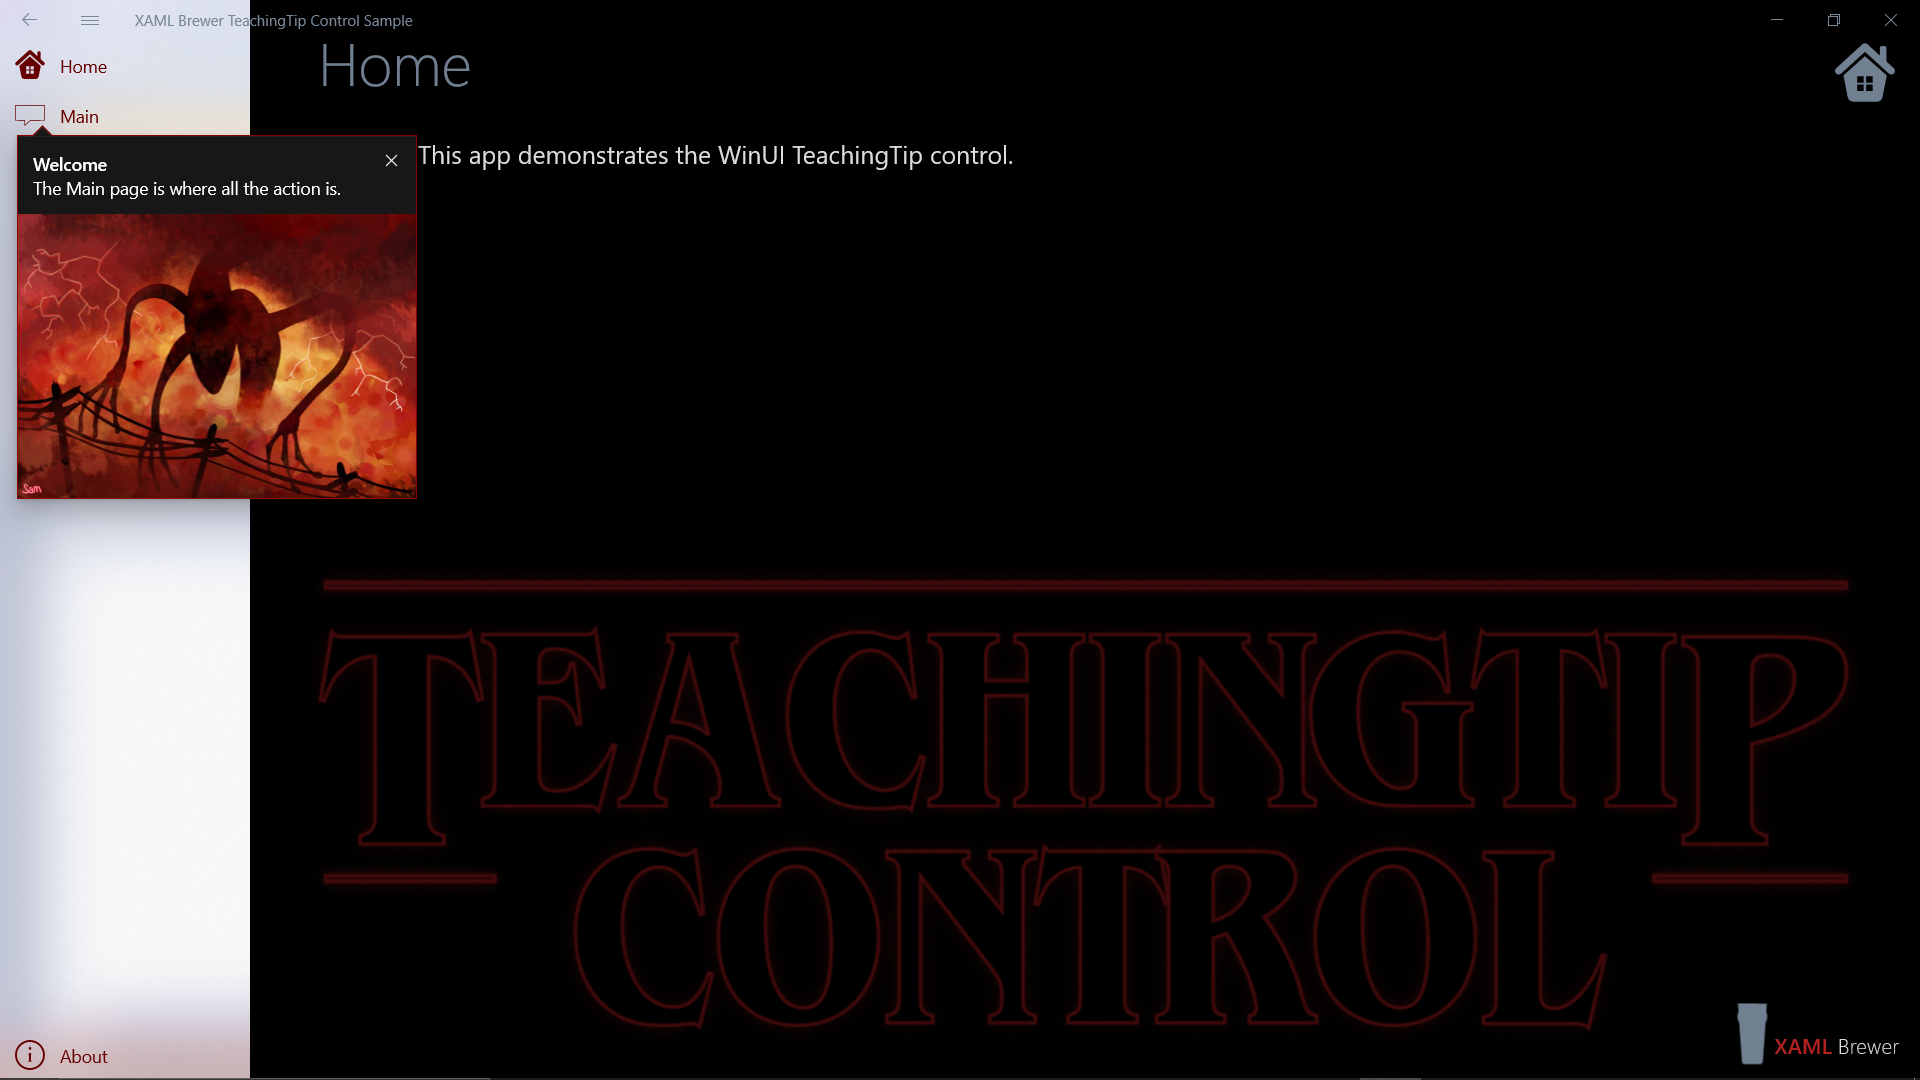
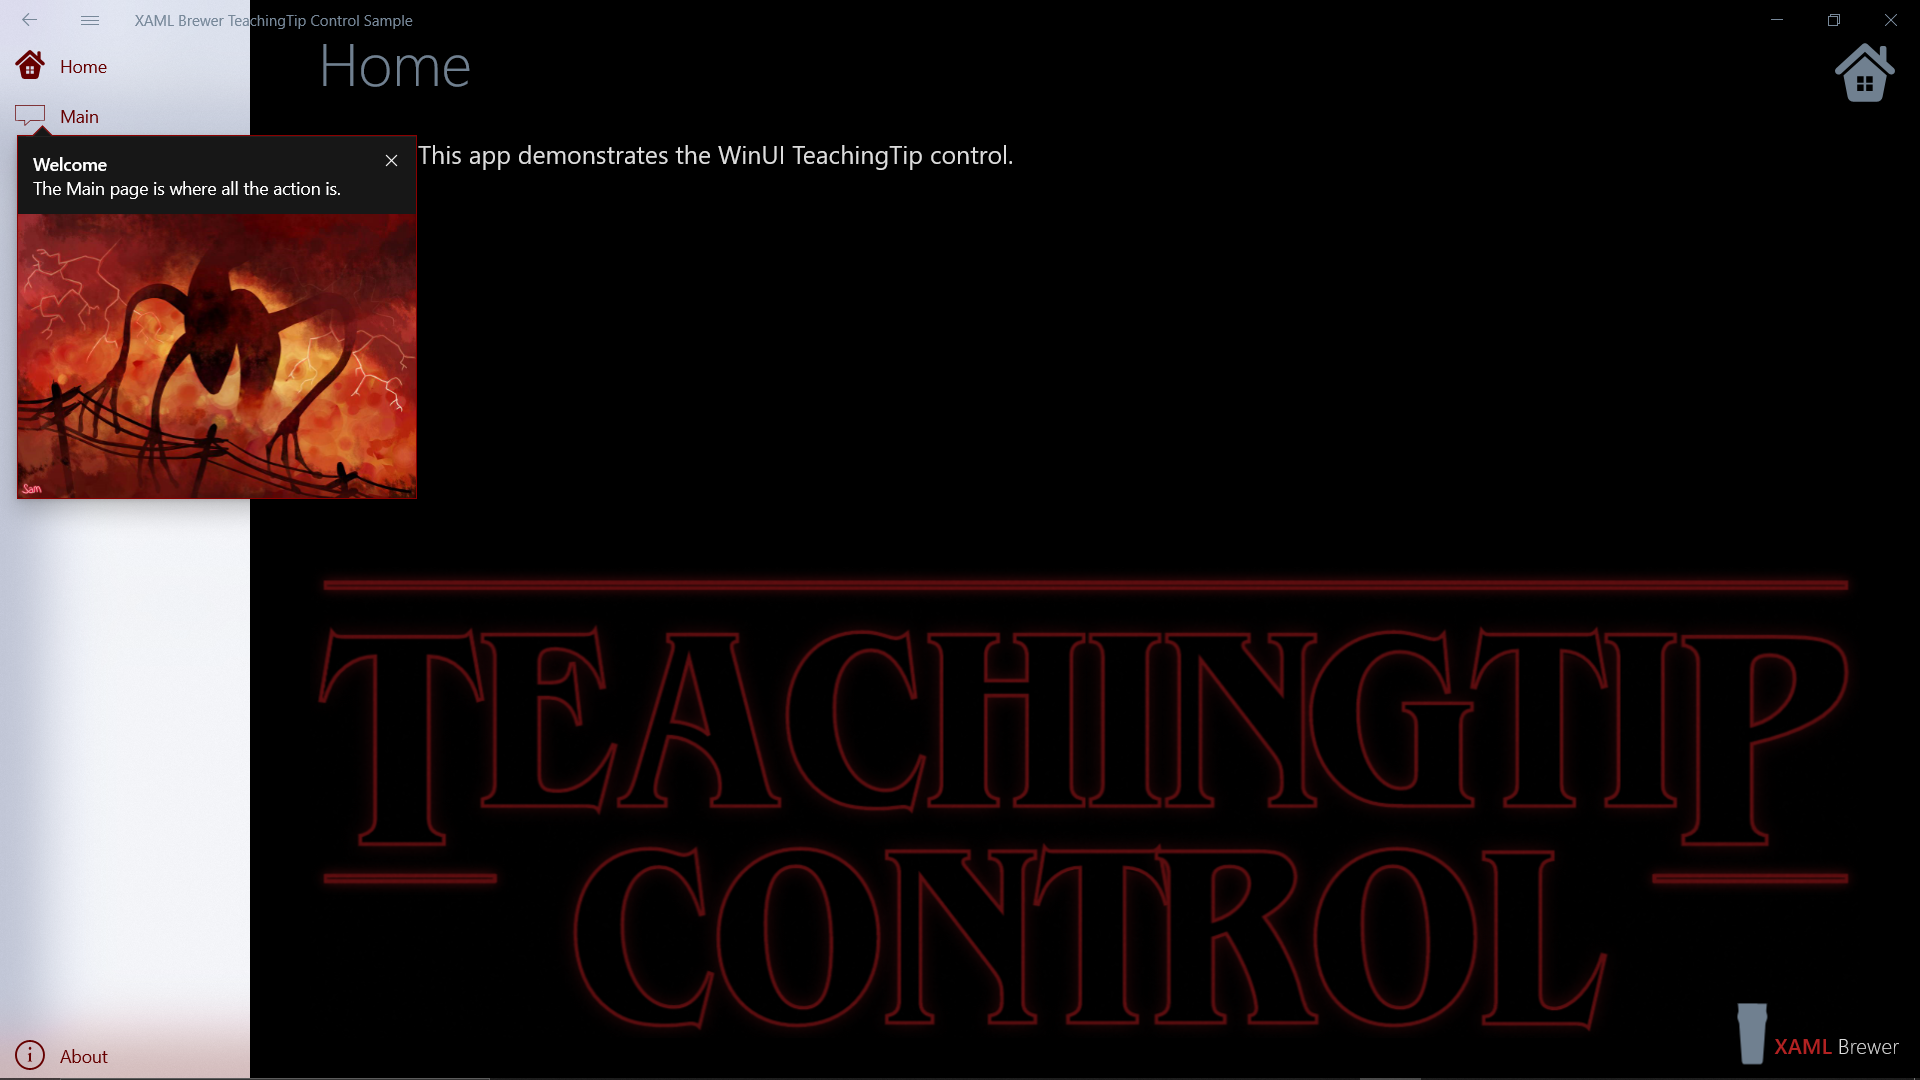
Background image

diff --git a/XamlBrewer.UWP.TeachingTip.Sample/Views/Shell.xaml b/XamlBrewer.UWP.TeachingTip.Sample/Views/Shell.xaml
@@ -98,7 +98,7 @@
                            Stretch="Uniform"
                            VerticalAlignment="Bottom"
                            HorizontalAlignment="Center"
-                           Opacity=".35"
+                           Opacity=".5"
                            Margin="48 34" />
 
                     <!-- Logo -->
